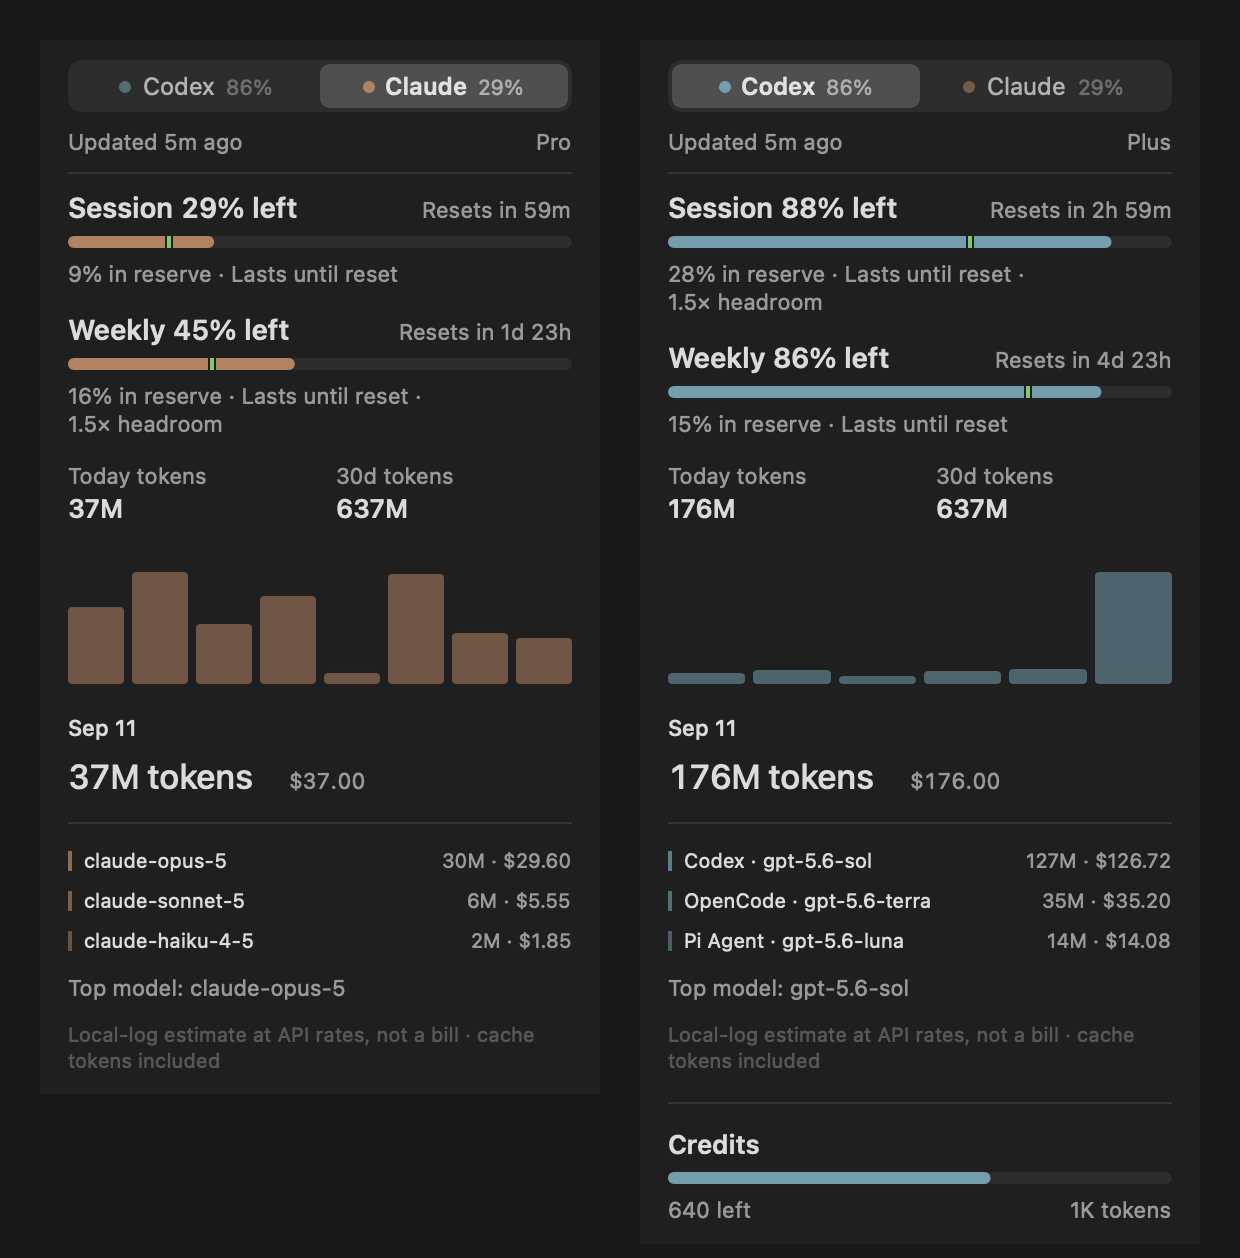
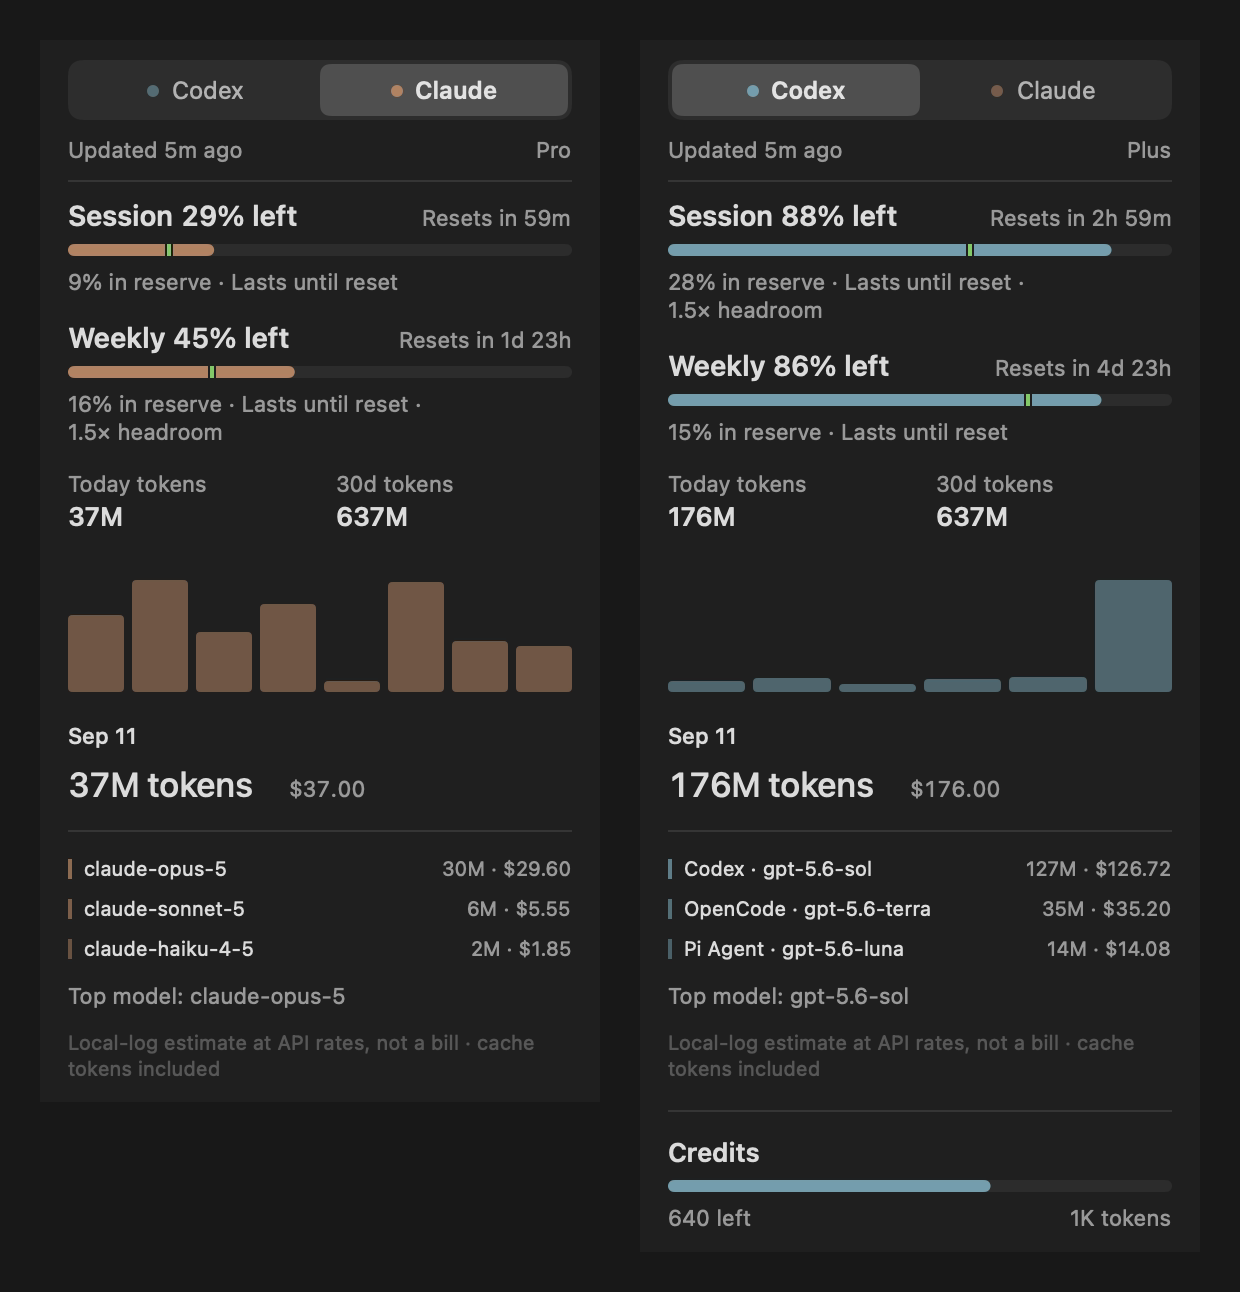
fix(ui): simplify provider tabs and refresh README visuals

diff --git a/Sources/QuotaBar/ProviderTabBar.swift b/Sources/QuotaBar/ProviderTabBar.swift
@@ -2,15 +2,12 @@ import QuotaBarCore
 import AppKit
 import SwiftUI
 
-/// The card's provider switch: one segment per provider, each carrying what its tightest window
-/// has left, so the provider off screen can be read without switching to it.
+/// Equal-width provider navigation. Quota readings belong to the selected card below.
 ///
 /// Clicks and hover arrive through `MouseLocationReader`: the card lives in an NSMenu popup, which
 /// is never the key window, so a SwiftUI button or gesture here would never fire.
 struct ProviderTabBar: View {
     let selection: Provider
-    /// The tightest window's remaining percentage, for each provider that has been read.
-    let remaining: [Provider: Double]
     let onSelect: (Provider) -> Void
 
     @State private var hovered: Provider?
@@ -23,16 +20,11 @@ struct ProviderTabBar: View {
     @State private var clickedProvider: Provider?
 
     private static let providers = Provider.allCases
-    private static let segmentHeight: CGFloat = 22
+    private static let segmentHeight: CGFloat = 26
     private static let inset: CGFloat = 2
     private static let cornerRadius: CGFloat = 7
     private static let nameSize: CGFloat = 12
-    /// Proportional figures: the number only changes on a refresh, so there is no count to keep
-    /// steady, and a tabular "1" leaves a hole between the name and a reading like "17%".
-    private static let percentFont = NSFont.systemFont(ofSize: 10.5)
-    /// How far above the shared baseline the dot's center sits: halfway up the name's capitals,
-    /// the line SF Symbols center on. The name's capitals are what the segment centers, so the
-    /// dot lands on the pill's middle too, rather than riding the smaller figures half a point low.
+    /// Center the dot on the name's capitals rather than its full line box.
     private static let dotLift = NSFont.systemFont(ofSize: Self.nameSize).capHeight / 2
 
     /// A raised white chip on a light menu, a lighter wash on a dark one.
@@ -42,9 +34,8 @@ struct ProviderTabBar: View {
             : NSColor(white: 1, alpha: 0.96)
     })
 
-    init(selection: Provider, remaining: [Provider: Double], onSelect: @escaping (Provider) -> Void) {
+    init(selection: Provider, onSelect: @escaping (Provider) -> Void) {
         self.selection = selection
-        self.remaining = remaining
         self.onSelect = onSelect
         let span = Self.span(of: selection)
         self._pillMinX = State(initialValue: span.minX)
@@ -98,15 +89,14 @@ struct ProviderTabBar: View {
         let isEmphasized = isSelected || self.hovered == provider
         let emphasisAnimation: Animation? = CostChartHoverMotion.systemReduceMotion
             ? nil : .easeInOut(duration: 0.18)
-        // Baseline alignment, because the name and the percentage are different sizes: centering
-        // their line boxes left the smaller percentage a point above the name's baseline.
-        return HStack(alignment: .firstTextBaseline, spacing: 5) {
+        // Align the provider dot with the name's capitals.
+        return HStack(alignment: .firstTextBaseline, spacing: 6) {
             Circle()
                 .fill(Theme.accent(for: provider))
                 .opacity(isEmphasized ? 1 : CostChartHighlightPolicy.restingOpacity)
                 .frame(width: 6, height: 6)
                 .alignmentGuide(.firstTextBaseline) { $0[VerticalAlignment.center] + Self.dotLift }
-            // Reserve the semibold width so emphasis never shifts the dot or percentage.
+            // Reserve the semibold width so emphasis never shifts the label.
             // Crossfade fixed glyphs instead of swapping font metrics in a single frame.
             Text(provider.displayName)
                 .font(.system(size: Self.nameSize, weight: .semibold))
@@ -117,22 +107,17 @@ struct ProviderTabBar: View {
                     ZStack {
                         Text(provider.displayName)
                             .font(.system(size: Self.nameSize, weight: .regular))
-                            .opacity(isEmphasized ? 0 : 1)
+                            .opacity(isSelected ? 0 : 1)
                         Text(provider.displayName)
                             .font(.system(size: Self.nameSize, weight: .semibold))
-                            .opacity(isEmphasized ? 1 : 0)
+                            .opacity(isSelected ? 1 : 0)
                     }
                     .fixedSize()
                 }
-            if let remaining = self.remaining[provider] {
-                Text(Formatters.percent(remaining))
-                    .font(Font(Self.percentFont))
-                    .foregroundStyle(.secondary)
-                    .fixedSize()
-            }
         }
         .foregroundStyle(isEmphasized ? Color.primary : Color.primary.opacity(0.75))
         .animation(emphasisAnimation, value: isEmphasized)
+        .animation(emphasisAnimation, value: isSelected)
         .frame(maxWidth: .infinity, maxHeight: .infinity)
         .background {
             // The wash an unselected segment carries under the pointer: it says "clickable"
@@ -144,7 +129,7 @@ struct ProviderTabBar: View {
         }
         .contentShape(Rectangle())
         .accessibilityElement(children: .ignore)
-        .accessibilityLabel(self.accessibilityLabel(provider))
+        .accessibilityLabel(provider.displayName)
         .accessibilityAddTraits(isSelected ? [.isButton, .isSelected] : [.isButton])
         .accessibilityAction { self.select(provider) }
     }
@@ -161,11 +146,6 @@ struct ProviderTabBar: View {
         guard provider != self.selection else { return }
         self.clickedProvider = provider
         self.onSelect(provider)
-    }
-
-    private func accessibilityLabel(_ provider: Provider) -> String {
-        guard let remaining = self.remaining[provider] else { return provider.displayName }
-        return "\(provider.displayName), \(Formatters.percent(remaining)) left"
     }
 
     /// Equal segments, so a provider's slot is a fixed share of the width.

diff --git a/Sources/QuotaBar/CardDump.swift b/Sources/QuotaBar/CardDump.swift
@@ -260,15 +260,6 @@ enum CardDump {
         print("wrote \(index) reset toggle frames to \(root.path)")
     }
 
-    /// What the switch at the top of every dumped card reads for each provider: the tightest
-    /// window of the same loaded accounts the cards are drawn from.
-    static var sampleProviderRemaining: [Provider: Double] {
-        Dictionary(uniqueKeysWithValues: Provider.allCases.compactMap { provider in
-            MenuBarProviderPolicy.tightestRemaining(Self.loadedSnapshot(provider), now: Date())
-                .map { (provider, $0) }
-        })
-    }
-
     /// The loaded card each provider is drawn from, shared with the reset toggle dump so both
     /// carry the same account.
     static func loadedSnapshot(_ provider: Provider) -> UsageSnapshot {
@@ -411,8 +402,7 @@ enum CardDump {
                         ),
                         isRefreshing: false,
                         animatesFill: false,
-                        quotaResetDisplayMode: resetMode,
-                        providerRemaining: Self.sampleProviderRemaining
+                        quotaResetDisplayMode: resetMode
                     ),
                     named: name,
                     into: root

diff --git a/Sources/QuotaBar/MenuCardView.swift b/Sources/QuotaBar/MenuCardView.swift
@@ -34,8 +34,6 @@ struct MenuCardView: View {
     /// it: off screen there is no pointer, and the lift on hover is the whole of what tells a
     /// reader the label is a switch.
     var hoveredResetLabelWindow: QuotaWindowKind?
-    /// What each provider's tightest window has left, for the switch at the top of the card.
-    var providerRemaining: [Provider: Double] = [:]
     var onProviderSelected: (Provider) -> Void = { _ in }
 
     var body: some View {
@@ -68,7 +66,6 @@ struct MenuCardView: View {
             // The switch names the provider, so the card needs no title of its own.
             ProviderTabBar(
                 selection: self.provider,
-                remaining: self.providerRemaining,
                 onSelect: self.onProviderSelected
             )
             HStack(spacing: 0) {

diff --git a/Sources/QuotaBar/StatusItemController.swift b/Sources/QuotaBar/StatusItemController.swift
@@ -341,7 +341,6 @@ final class StatusItemController: NSObject, NSMenuDelegate {
                 self?.settings.quotaResetDisplayMode = mode
                 self?.refreshOpenCard()
             },
-            providerRemaining: Self.tightestRemaining(self.store.displays, now: now),
             onProviderSelected: { [weak self] provider in
                 // The icon, the card and the refresh all follow the setting.
                 self?.settings.menuBarProvider = provider

diff --git a/README.md b/README.md
@@ -23,7 +23,7 @@ QuotaBar supports Codex and Claude in one menu bar item. It is a rebuild of [Cod
 - Charts local Codex and Claude token use and estimated cost by day and model.
 - Prices GPT-6 Astra Standard, Fast, and long-context usage, with editable Standard rates.
 - Includes matching OpenCode and Pi Agent OpenAI OAuth usage under Codex.
-- Shows one provider at a time as a robot in the menu bar. A switch at the top of the menu changes provider, and each provider refreshes on its own.
+- Shows one provider at a time as a robot in the menu bar. QuotaBar refreshes the selected provider; switching tabs requests a refresh for the newly selected provider, subject to its cooldown.
 - Uses built-in pricing, the public [models.dev](https://models.dev) catalog, and optional manual rate overrides.
 - Keeps the last good quota reading when a refresh fails.
 - Disables motion when macOS Reduce Motion is enabled.
@@ -87,10 +87,10 @@ claude
 Then open QuotaBar:
 
 - Click the menu bar icon to view quota and local cost.
-- Switch between Codex and Claude from the top of the menu. Each side of the switch shows that provider's lowest remaining percentage. The number for the provider you are not viewing comes from its last refresh.
+- Switch between Codex and Claude using the equal-width tabs at the top of the menu. Each tab shows the provider's name and color; quota percentages appear in the selected provider's details below.
 - Open **Settings** to choose a refresh interval or edit model rates.
 
-Selected and hovered provider names fade into a heavier weight without shifting the label layout. Their colored dots use the same full-strength accent as a highlighted chart bar; idle dots use the chart's muted tone.
+The selected tab has a highlighted background and a bold name. Hovering the other tab adds a subtle background and brightens its dot without making the name bold. Labels stay in place when you switch.
 
 Reading Claude credentials may trigger a macOS Keychain prompt. If a manual `Refresh` receives HTTP 401, QuotaBar lets Claude Code attempt one short credential refresh. Automatic refreshes never start Claude Code.
 

diff --git a/README.zh-CN.md b/README.zh-CN.md
@@ -23,7 +23,7 @@ QuotaBar 将 Codex 和 Claude 放在同一个菜单栏图标中。项目基于 [
 - 按日期和模型展示本地 Codex、Claude 的 token 用量与预估成本。
 - 为 GPT-6 Astra 的 Standard、Fast 和长上下文用量计价，Standard 费率可以手动修改。
 - 将同一账号的 OpenCode 和 Pi Agent OpenAI OAuth 用量计入 Codex。
-- 菜单栏里用一个机器人一次显示一家供应商。菜单顶部的切换按钮用来换供应商，两家各自刷新。
+- 菜单栏机器人一次显示一家供应商。QuotaBar 刷新当前选中的供应商；切换后会请求刷新新选中的供应商，仍受其冷却时间限制。
 - 使用内置费率、公开的 [models.dev](https://models.dev) 目录和手动费率。
 - 刷新失败时保留最后一次有效的额度数据。
 - 跟随 macOS 的 **减弱动态效果** 设置。
@@ -87,10 +87,10 @@ claude
 然后打开 QuotaBar：
 
 - 点击菜单栏图标，查看额度与本地成本。
-- 在菜单顶部切换 Codex 和 Claude。切换按钮上显示每家剩余最少的那个窗口的百分比。当前没显示的那家，数字来自它上一次刷新。
+- 在菜单顶部用两个等宽按钮切换 Codex 和 Claude。按钮只显示供应商名称和色点，额度百分比放在下方当前供应商的详情中。
 - 打开 **Settings**，修改刷新间隔或模型费率。
 
-选中或悬停时，供应商名称会平滑加粗，文字布局保持固定。旁边的色点与下方图表使用相同的高亮色；未选中且未悬停时，使用图表的淡色。
+选中项使用高亮底色和加粗名称。悬停另一项时，只显示轻微底色并提亮色点，名称不加粗。切换时文字位置保持固定。
 
 读取 Claude 凭据时，macOS 可能弹出 Keychain 授权提示。如果手动 `Refresh` 收到 HTTP 401，QuotaBar 会让 Claude Code 尝试一次短时凭据刷新。自动刷新不会启动 Claude Code。
 
